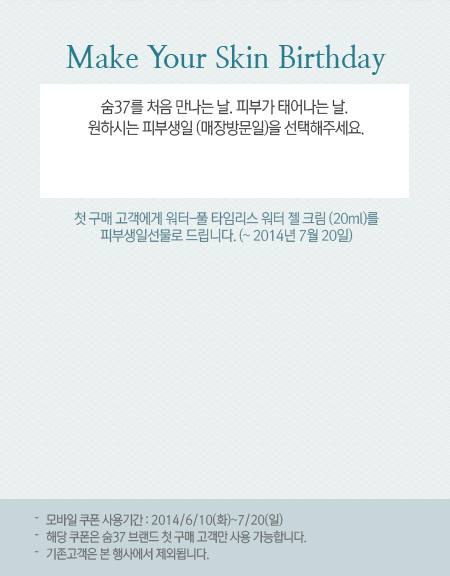
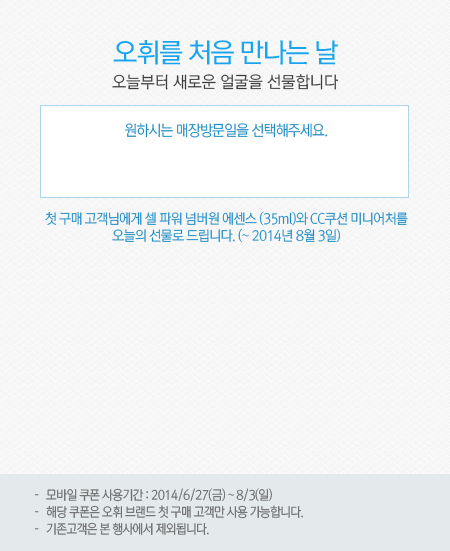
이미지 및 CSS수

Changed region(s): [[0.0, 0.8639, 1.0, 1.0], [0.1556, 0.0617, 0.8711, 0.2468], [0.0933, 0.3394, 0.9022, 0.4628]]

diff --git a/app/assets/stylesheets/pc/style.css.scss b/app/assets/stylesheets/pc/style.css.scss
@@ -51,12 +51,12 @@ img{
 }
 
 .c_title{
-	padding:30px 0 25px;
+	padding:18px 0 3px;
 	text-align: center;
 }
 
 .btn_event{
-	padding-bottom:430px;
+	padding-bottom:495px;
 }
 
 .content_title{
@@ -69,7 +69,6 @@ img{
 
 .share_block{
     margin:0 auto;
-    background-image: asset-url("pc/btn_middle.png");
     width:719px;
     height:154px;	
 	position:relative;
@@ -82,21 +81,21 @@ img{
 }
 .share_block a.view_p{
 	top:84px;
-	left:47px;
-	width:112px;
-	height:33px;
+	left:105px;
+	width:104px;
+	height:30px;
 }
 .share_block a.s_blog{
-	top:67px;
-	right:50px;
+	top:88px;
+	right:150px;	
 }
 .share_block a.s_tw{
-	top:67px;
-	right:100px;
+	top:86px;
+	right:193px;
 }
 .share_block a.s_fb{
-	top:67px;
-	right:148px;
+	top:85px;
+	right:235px;
 }
 
 
@@ -113,7 +112,7 @@ img{
 }
 
 .product_new{
-	height:210px;
+	height:317px;
 }
 
 
@@ -380,7 +379,7 @@ img{
 
 .footer_custom{
   width: 100%;
-  background-color: #c0dbe6;
+  background-color: #eef1f3;
   text-align: center;
 }
 .footer_custom .inner{
@@ -393,7 +392,7 @@ img{
 .footer_custom .inner a{
 	position:absolute;
 	display:block;
-	top:263px;
+	top:266px;
 	left:335px;
 }
 
